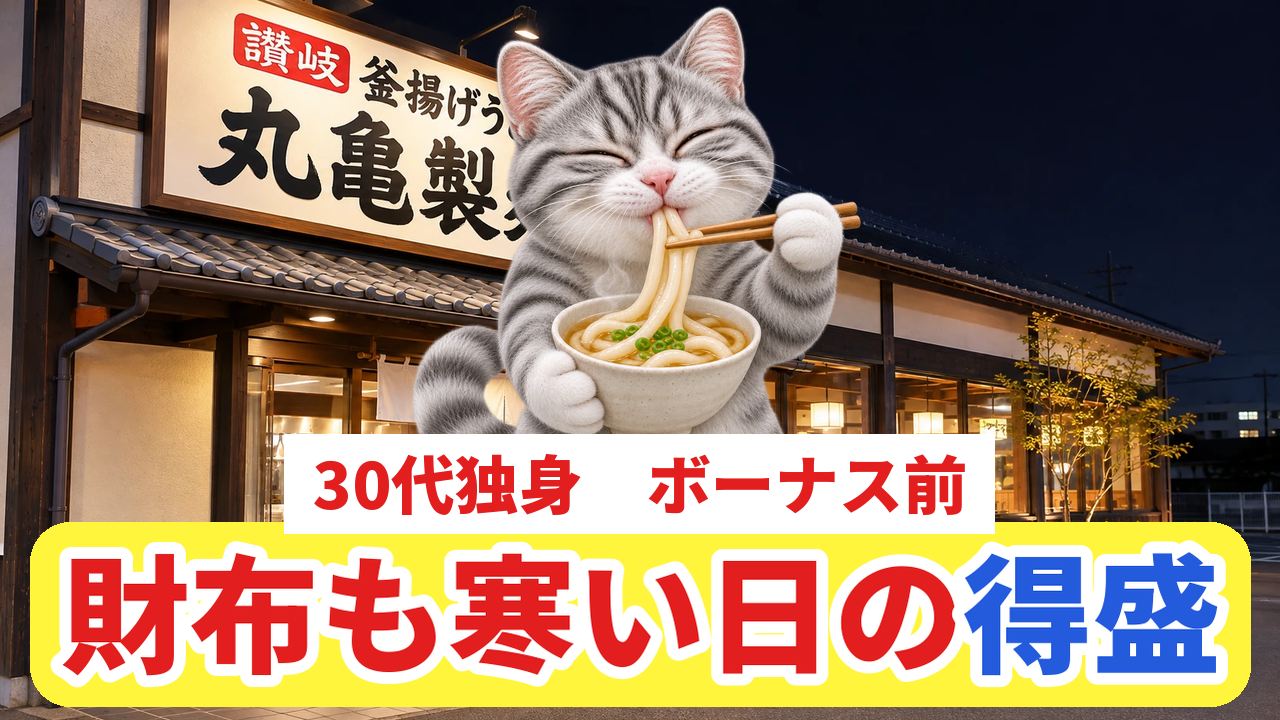
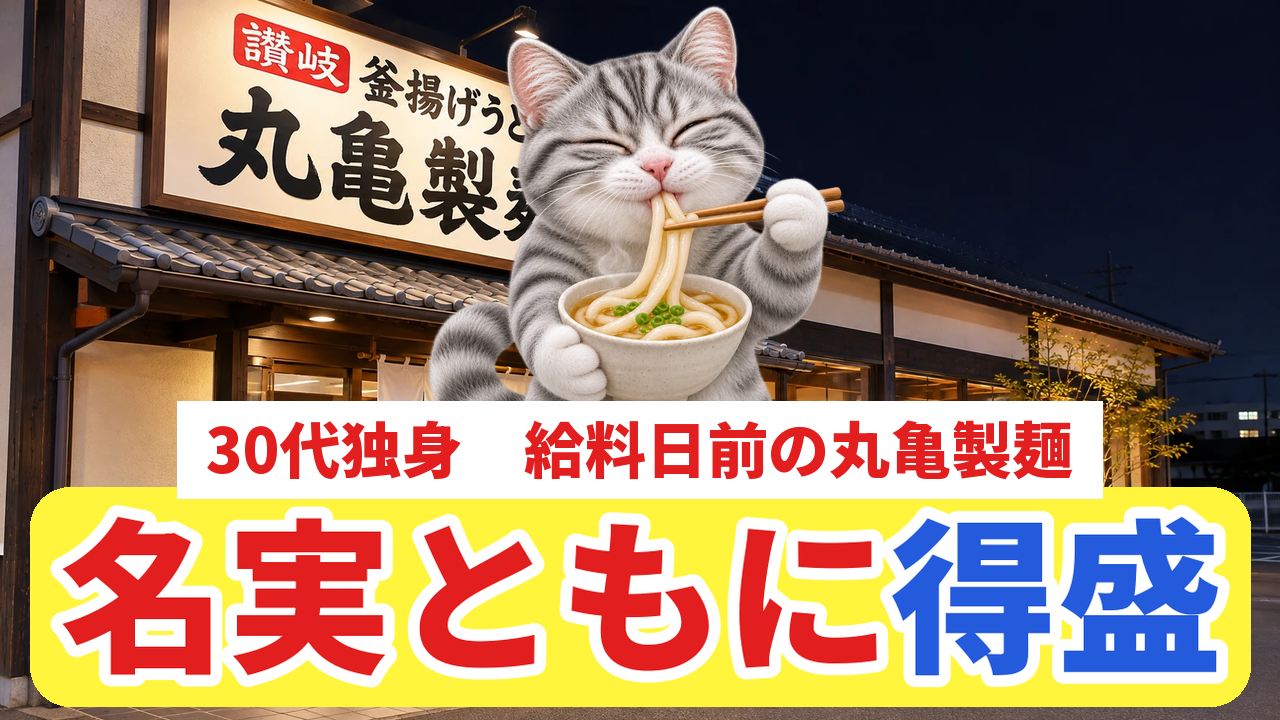
自堕落#28 丸亀 サムネ案 「丸亀製麺」入りで作り直し
Claude-Session: https://claude.ai/code/session_011g9CsrfFD5YswfNSvNDW39

diff --git a/catmeme/make_thumb_marugame.py b/catmeme/make_thumb_marugame.py
@@ -45,9 +45,10 @@ def one(name, big_runs, sub_runs=None, tag="30代独身　給料日前"):
 
 
 def main():
-    one("jidaraku_28_marugame_thumb_c1.png", [("名実ともに", T.RED), ("得盛", T.BLUE)])
-    one("jidaraku_28_marugame_thumb_c2.png", [("財布も寒い日の", T.RED), ("得盛", T.BLUE)], tag="30代独身　ボーナス前")
-    one("jidaraku_28_marugame_thumb_c3.png", [("今日だけは", T.RED), ("得", T.BLUE)], [("（半額）", T.RED)])
+    # 11/28 ユーザー指定：「丸亀製麺」を入れて作り直し
+    one("jidaraku_28_marugame_thumb_c1.png", [("丸亀製麺で", T.RED), ("得盛", T.BLUE)])
+    one("jidaraku_28_marugame_thumb_c2.png", [("名実ともに", T.RED), ("得盛", T.BLUE)], tag="30代独身　給料日前の丸亀製麺")
+    one("jidaraku_28_marugame_thumb_c3.png", [("給料日前の", T.RED), ("丸亀製麺", T.BLUE)], tag="30代独身　ボーナス前")
 
 
 if __name__ == "__main__":
